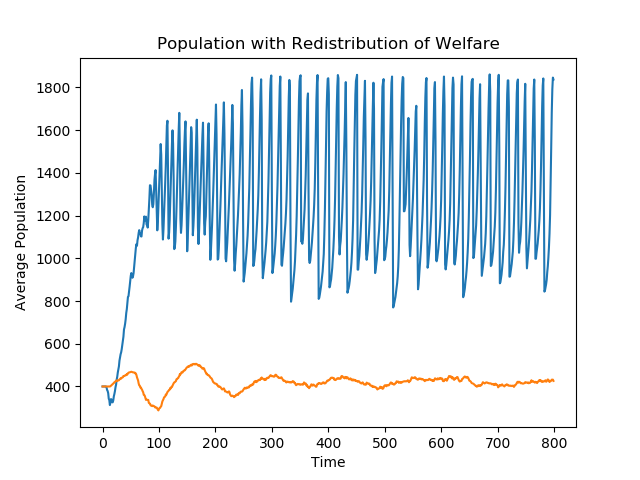
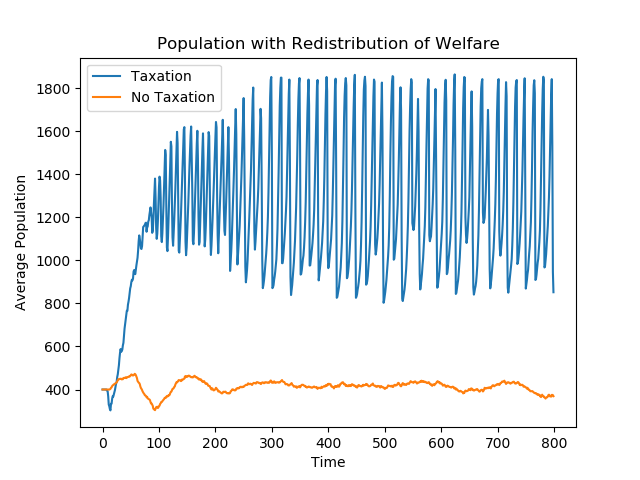
adding some nicer images

diff --git a/code/sugar_scape.py b/code/sugar_scape.py
@@ -427,6 +427,7 @@ class Sugarscape(Cell2D):
 		plt.xlabel('Time')
 		plt.ylabel('Average Population')
 		plt.plot(self.agent_count_seq, label=my_label)
+		plt.legend()
 
 	def plot_avg_metabolisms(self):
 		plt.plot(self.agent_metabolism_seq)
@@ -434,15 +435,15 @@ class Sugarscape(Cell2D):
 
 
 if __name__ == '__main__':
-	env = Sugarscape(50, True, True, True, num_agents=400)
+	env = Sugarscape(50, True, False, True, num_agents=400)
 	for i in range(800):
 		env.step()
 	env.plot_populations("Taxation")
-	env = Sugarscape(50, False, True, True, num_agents=400)
+	env = Sugarscape(50, False, False, True, num_agents=400)
 	for i in range(800):
 		env.step()
 	env.plot_populations("No Taxation")
-	plt.title("Population with Redistribution of Welfare")
+	plt.title("Population with No Evolution")
 	plt.show()
 
 	# env = Sugarscape(50, num_agents=400)
